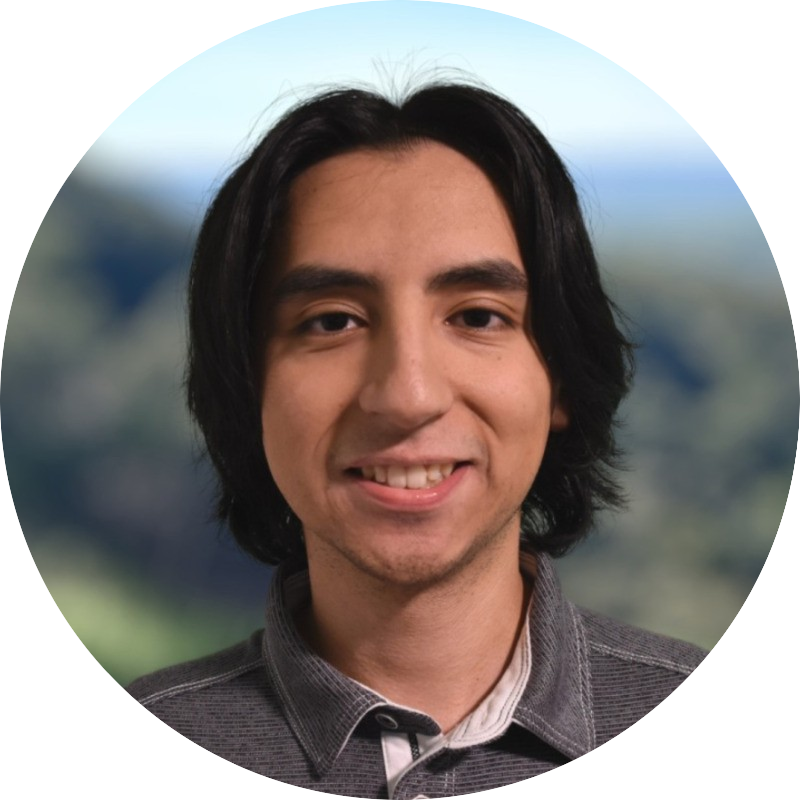
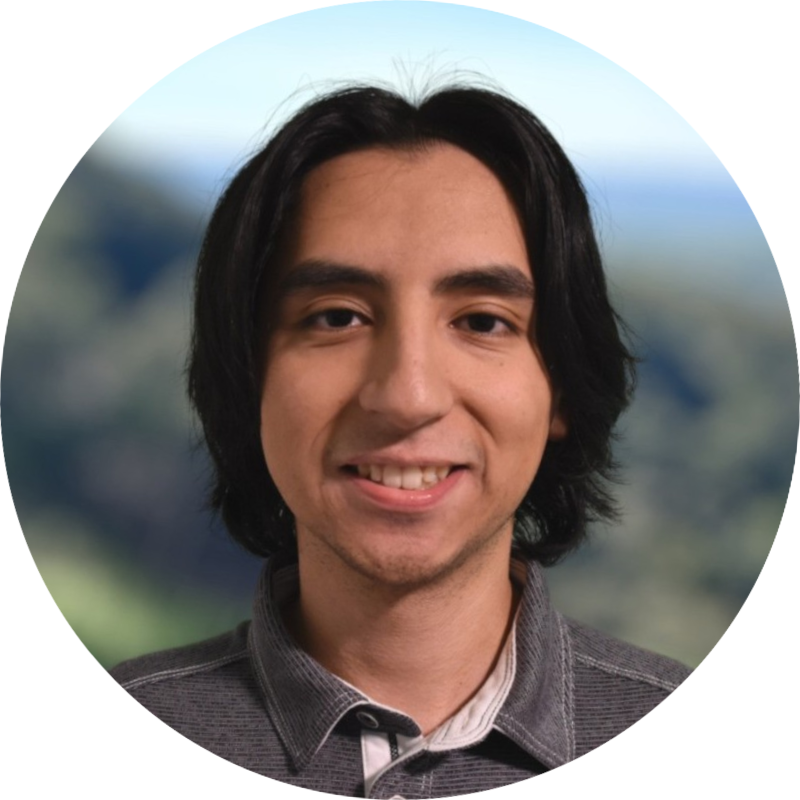
change photo

diff --git a/index.html b/index.html
@@ -65,7 +65,7 @@
             </h1>
             <p>Hey I'm Sergio! I'm a programmer, among other things, based in the SF bay area, and this is my website, where you can find various works of my own creation. Learn more about me in the <a href="/about">about</a> section</p>  
           </div>
-          <a href="/about"><img src="/assets/person.jpg" alt="photo of Sergio"></a>
+          <a href="/about"><img src="/assets/me.jpg" alt="photo of Sergio in front of some pyramids"></a>
         </div>
 
         <div class="section">
@@ -73,7 +73,7 @@
             <h2>Coding Projects</h2>
             <p>Here you can find some of my coding projects that I've worked on over the years, mostly for school with hopefully more personal projects to come. Head over to the <a href="/projects">projects</a> section to see more</p>
           </div>
-          <a href="/projects"><img src="/assets/codding.jpg" alt="coding symbol"></a> 
+          <a href="/projects"><img src="/assets/codding.jpg" alt="coding symbols"></a> 
         </div>
         <div class="section">
           <div class="section_text">
@@ -87,7 +87,7 @@
             <h2>Blog</h2>
             <p>I also have my blog here where a write about pretty much anything I feel like. Check out my posts in the <a href="/blog">blog</a> section</p>
           </div>
-          <a href="/blog"><img src="/assets/journal.jpg" alt="photo of a journal"></a>
+          <a href="/blog"><img src="/assets/journal.jpg" alt="photo of a journal and a pen"></a>
         </div>
       </div>
     </main>
